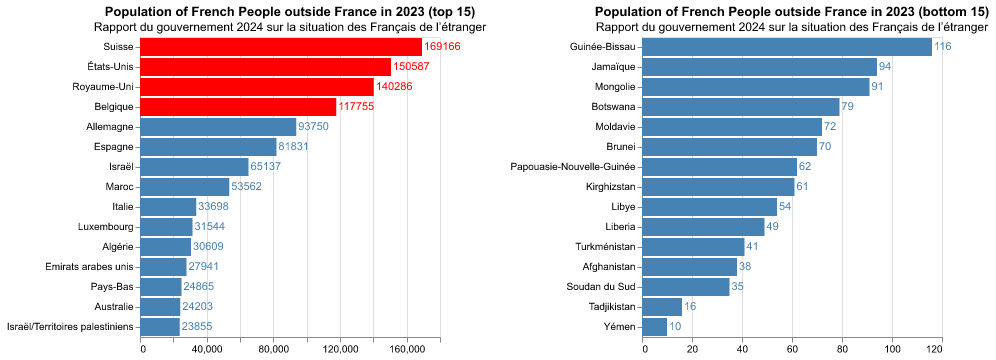
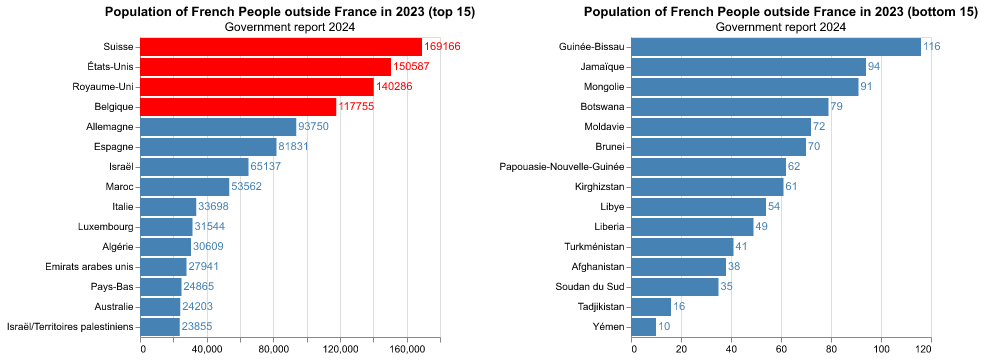
Plot map for population

diff --git a/src/data_manager.py b/src/data_manager.py
@@ -1,8 +1,13 @@
+from fnmatch import translate
+
 import pdfplumber
 import os
 import pandas as pd
 import itertools
 import altair as alt
+from pandas import concat
+from vega_datasets import data
+import requests
 
 # URL from which PDF to be downloaded
 PDF_URL = 'https://francais-du-monde.org/wp-content/uploads/2022/11/2024-gouvernement-francais-etranger-rapport.pdf'
@@ -15,7 +20,6 @@ COUNTRY_LIMIT = 15
 class ReportData:
     def __init__(self):
         self.df = self.load_data()
-        self.explore_data()
 
     def get_current_location(self):
         """
@@ -24,29 +28,76 @@ class ReportData:
         """
         print(os.getcwd())
 
+    def plot_geo_distribution(self):
+        """
+
+        :return:
+        """
+
+        values = pd.DataFrame({"name": ['Spain', 'Norway', 'France'],
+                               "fantasy_value": [137.5, 20.4, 70.4]})
+
+        countries = alt.topo_feature(data.world_110m.url, "countries")
+        # https://en.wikipedia.org/wiki/ISO_3166-1_numeric
+        country_codes = pd.read_csv(
+            "https://raw.githubusercontent.com/lukes/ISO-3166-Countries-with-Regional-Codes/master/all/all.csv"
+        )
+
+        background = alt.Chart(countries).mark_geoshape(fill="lightgray")
+
+        # we transform twice, first from "ISO 3166-1 numeric" to name, then from name to value
+        foreground = (
+            alt.Chart(countries)
+            .mark_geoshape()
+            .transform_lookup(
+                lookup="id",
+                from_=alt.LookupData(data=country_codes, key="country-code", fields=["name"]),
+            )
+            .transform_lookup(
+                lookup="name",
+                from_=alt.LookupData(data=self.df, key="name", fields=["Population 2023"]),
+            )
+            .encode(
+                fill=alt.Color(
+                    "Population 2023:Q",
+                    scale=alt.Scale(scheme="reds"),
+                )
+            )
+        )
+
+        chart = (
+            (background + foreground)
+            .properties(width=600, height=600)
+            .project(
+                type="equirectangular"
+            )
+        )
+
+        chart.save('./fig/test.png')
+
     def explore_data(self):
         """
         Explore data via charts
         :return: save visualisations to png files
         """
 
-
         def plot_inner_chart(df, title_comment):
             """
             Support function to plot inner chart
+            :param title_comment: information about the subset of countries, default 15
             :param df: dataframe to plot a bar chart
-            :return: chart object
+            :return: a chart object
             """
 
             base_ = alt.Chart(df).encode(
                      x=alt.X('Population 2023').title(''),
-                     y=alt.Y("Country").sort('-x').title(''),
+                     y=alt.Y("Country FR").sort('-x').title(''),
                      text='Population 2023',
                      color=alt.condition(alt.datum['Population 2023'] > 100000, alt.value('red'), alt.value('steelblue'))
                  ).properties(
                     title={
                       "text": [f"Population of French People outside France in 2023 {title_comment}"],
-                      "subtitle": ["Rapport du gouvernement 2024 sur la situation des Français de l’étranger"],
+                      "subtitle": ["Government report 2024"],
                       "color": "black",
                       "subtitleColor": "black"
                     }
@@ -77,7 +128,12 @@ class ReportData:
         # Check if the file exists
         if os.path.exists(INPUT_DATA_PICKLE):
             print("Load from pickle file.")
-            return pd.read_pickle(INPUT_DATA_PICKLE)
+            df = pd.read_pickle(INPUT_DATA_PICKLE)
+            translate_country = pd.read_csv('./data/translate_country_name.txt', sep=';')
+
+            df = pd.merge(df, translate_country, on="Country FR")
+
+            return df
 
         else:
             print("Load data from local PDF and pickle.")
@@ -94,7 +150,7 @@ class ReportData:
 
             # Create a dataframe based on PDF table
             df = pd.DataFrame(pdf_tables[3:])
-            df.columns = ['Rang', 'Country', 'Population 2023', 'Change 2023/2022 (%)', 'col1', 'col2']
+            df.columns = ['Rang', 'Country FR', 'Population 2023', 'Change 2023/2022 (%)', 'col1', 'col2']
             df.drop(['col1', 'col2'], axis=1, inplace=True)
 
             # Change datatypes
@@ -108,6 +164,10 @@ class ReportData:
             # Convert columns  to numeric
             columns_numeric = ['Rang', 'Population 2023', 'Change 2023/2022 (%)']
             df[columns_numeric] = df[columns_numeric].apply(pd.to_numeric)
+
+            # Country names are in French, create a column with English names
+
+            print(df.head(10))
 
             df.to_pickle(INPUT_DATA_PICKLE)
 

diff --git a/src/main.py b/src/main.py
@@ -1,3 +1,10 @@
 from data_manager import ReportData
 
+# Initiate class and load data
 report = ReportData()
+
+# Explore data via visualizations
+report.explore_data()
+report.plot_geo_distribution()
+
+# END ----------------

diff --git a/README.md b/README.md
@@ -4,3 +4,5 @@ French people living outside France as per government report 2024.
 ## Reference
 <a href="https://francais-du-monde.org/wp-content/uploads/2022/11/2024-gouvernement-francais-etranger-rapport.pdf">Rapport du gouvernement 2024 sur la situation des Français de l’étranger</a> <br>
 see the section V. STATISTIQUES : FRANÇAIS INSCRITS AU REGISTRE 
+
+https://nbviewer.org/github/bast/altair-geographic-plots/blob/fc9c036/choropleth.ipynb
